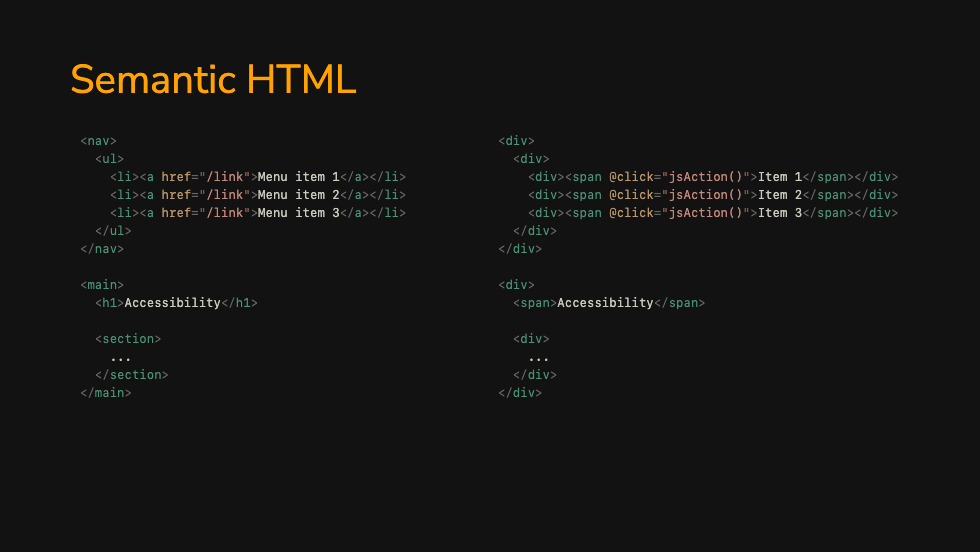
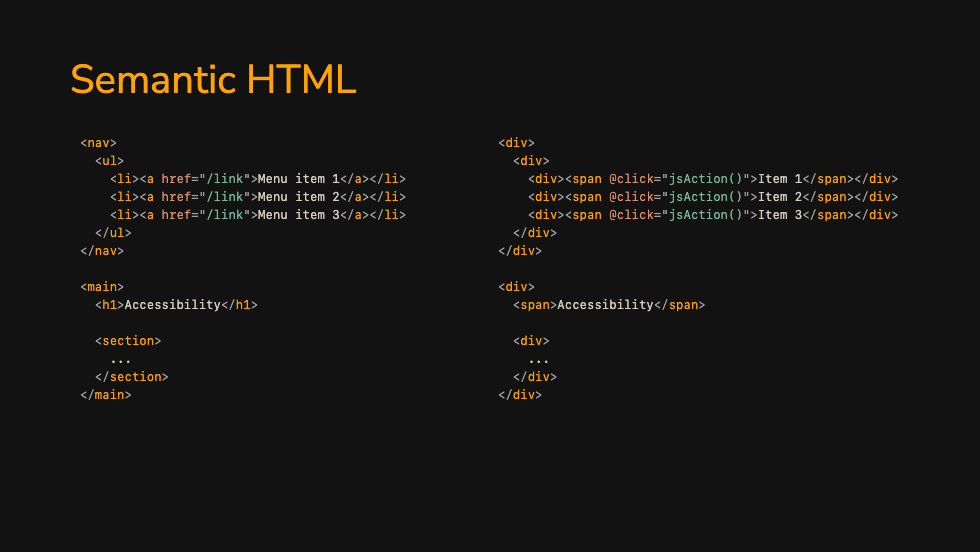
feat: increased contrast for code highlighting
contrast of at least 7:1 in compliance with WCAG AAA

diff --git a/styles/code.css b/styles/code.css
@@ -7,48 +7,48 @@
 }
 
 html:not(.dark) {
-  --prism-foreground: #393a34;
-  --prism-background: #f8f8f8;
-  --prism-comment: #a0ada0;
-  --prism-string: #b56959;
-  --prism-literal: #2f8a89;
-  --prism-number: #296aa3;
-  --prism-keyword: #1c6b48;
-  --prism-function: #6c7834;
-  --prism-boolean: #1c6b48;
-  --prism-constant: #a65e2b;
-  --prism-deleted: #a14f55;
-  --prism-class: #2993a3;
-  --prism-builtin: #ab5959;
-  --prism-property: #b58451;
-  --prism-namespace: #b05a78;
-  --prism-punctuation: #8e8f8b;
-  --prism-decorator: #bd8f8f;
-  --prism-regex: #ab5e3f;
-  --prism-json-property: #698c96;
+  --prism-foreground: #121212;
+  --prism-background: #ffffff;
+  --prism-comment: #4D5C4D;
+  --prism-string: #86463C;
+  --prism-literal: #215E58;
+  --prism-number: #235A8B;
+  --prism-keyword: #1A6545;
+  --prism-function: #545D27;
+  --prism-boolean: #1A6545;
+  --prism-constant: #834921;
+  --prism-deleted: #894348;
+  --prism-class: #1B6069;
+  --prism-builtin: #884444;
+  --prism-property: #735230;
+  --prism-namespace: #864159;
+  --prism-punctuation: #565652;
+  --prism-decorator: #7D4A4A;
+  --prism-regex: #824930;
+  --prism-json-property: #435C60;
 }
 
 html.dark {
   --prism-foreground: #d4cfbf;
-  --prism-background: #1b1b1b;
-  --prism-comment: #758575;
-  --prism-string: #d48372;
-  --prism-literal: #429988;
-  --prism-keyword: #4d9375;
-  --prism-boolean: #1c6b48;
-  --prism-number: #6394bf;
+  --prism-background: #121212;
+  --prism-comment: #93A593;
+  --prism-string: #E99B8B;
+  --prism-literal: #4BAF9B;
+  --prism-keyword: #79B99D;
+  --prism-boolean: #2FB67A;
+  --prism-number: #84ABCD;
   --prism-variable: #c2b36e;
   --prism-function: #a1b567;
-  --prism-deleted: #a14f55;
+  --prism-deleted: #C99295;
   --prism-class: #54b1bf;
-  --prism-builtin: #e0a569;
+  --prism-builtin: #ffa202;
   --prism-property: #dd8e6e;
   --prism-namespace: #db889a;
-  --prism-punctuation: #858585;
-  --prism-decorator: #bd8f8f;
-  --prism-regex: #ab5e3f;
-  --prism-json-property: #6b8b9e;
-  --prism-line-number: #888888;
+  --prism-punctuation: #A1A1A1;
+  --prism-decorator: #C19595;
+  --prism-regex: #CD9179;
+  --prism-json-property: #84A4AE;
+  --prism-line-number: #A1A1A1;
   --prism-line-number-gutter: #eeeeee;
   --prism-line-highlight-background: #444444;
   --prism-selection-background: #444444;

diff --git a/example.md b/example.md
@@ -7,7 +7,7 @@ background: https://source.unsplash.com/collection/94734566/1920x1080
 # apply any windi css classes to the current slide
 class: 'text-center'
 # https://sli.dev/custom/highlighters.html
-highlighter: shiki
+highlighter: prism
 # show line numbers in code blocks
 lineNumbers: false
 # some information about the slides, markdown enabled
